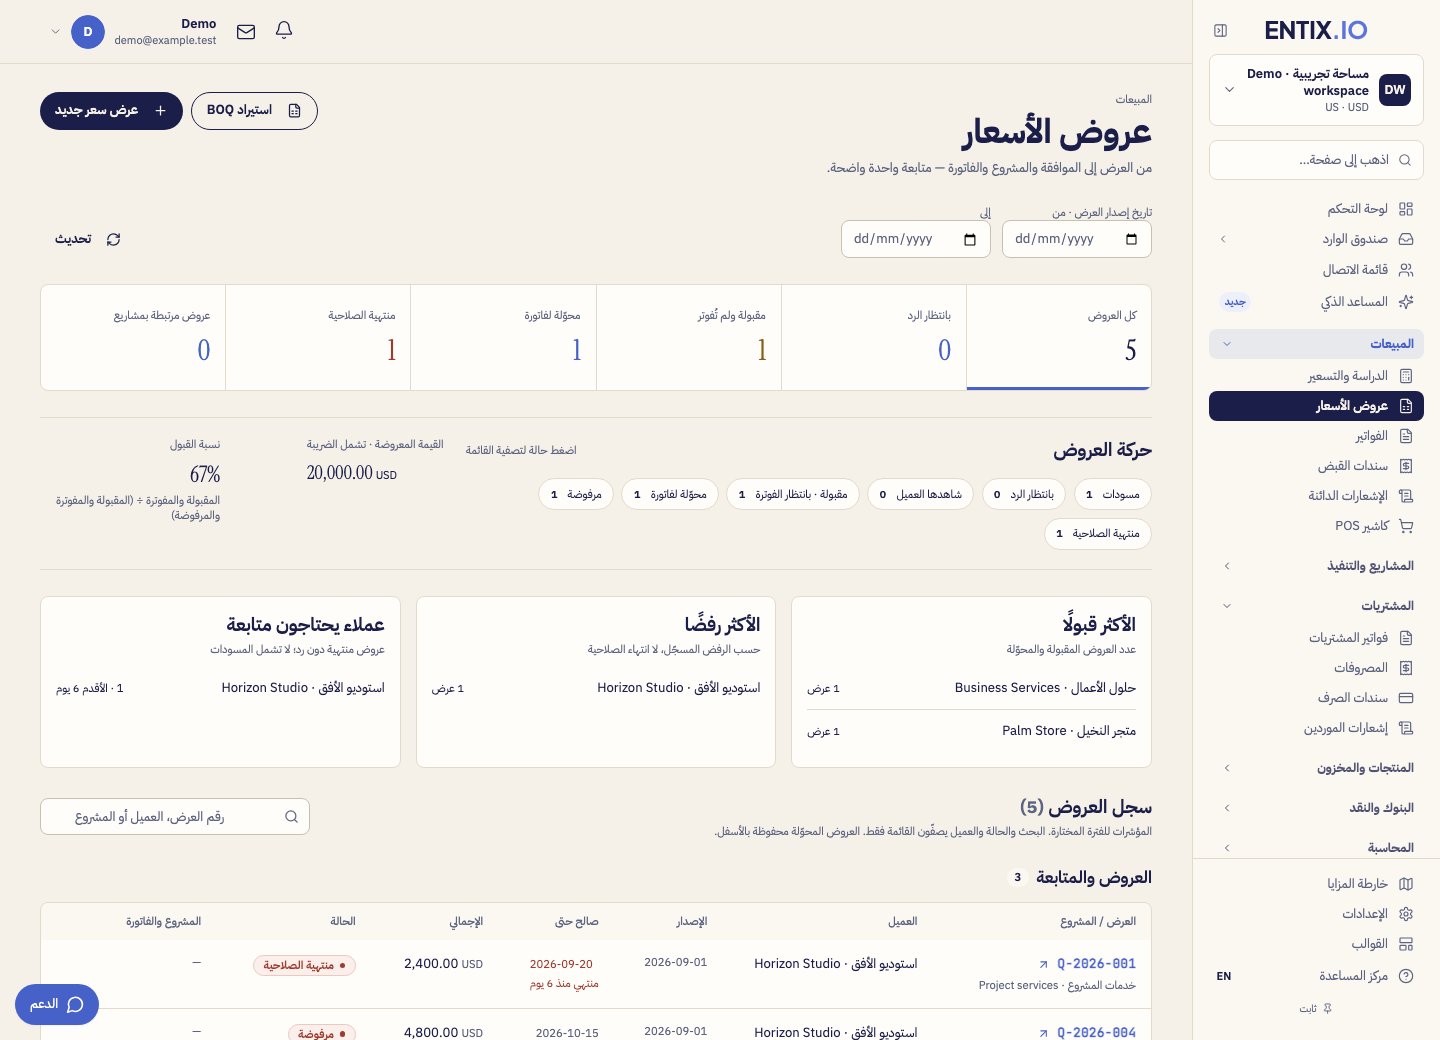
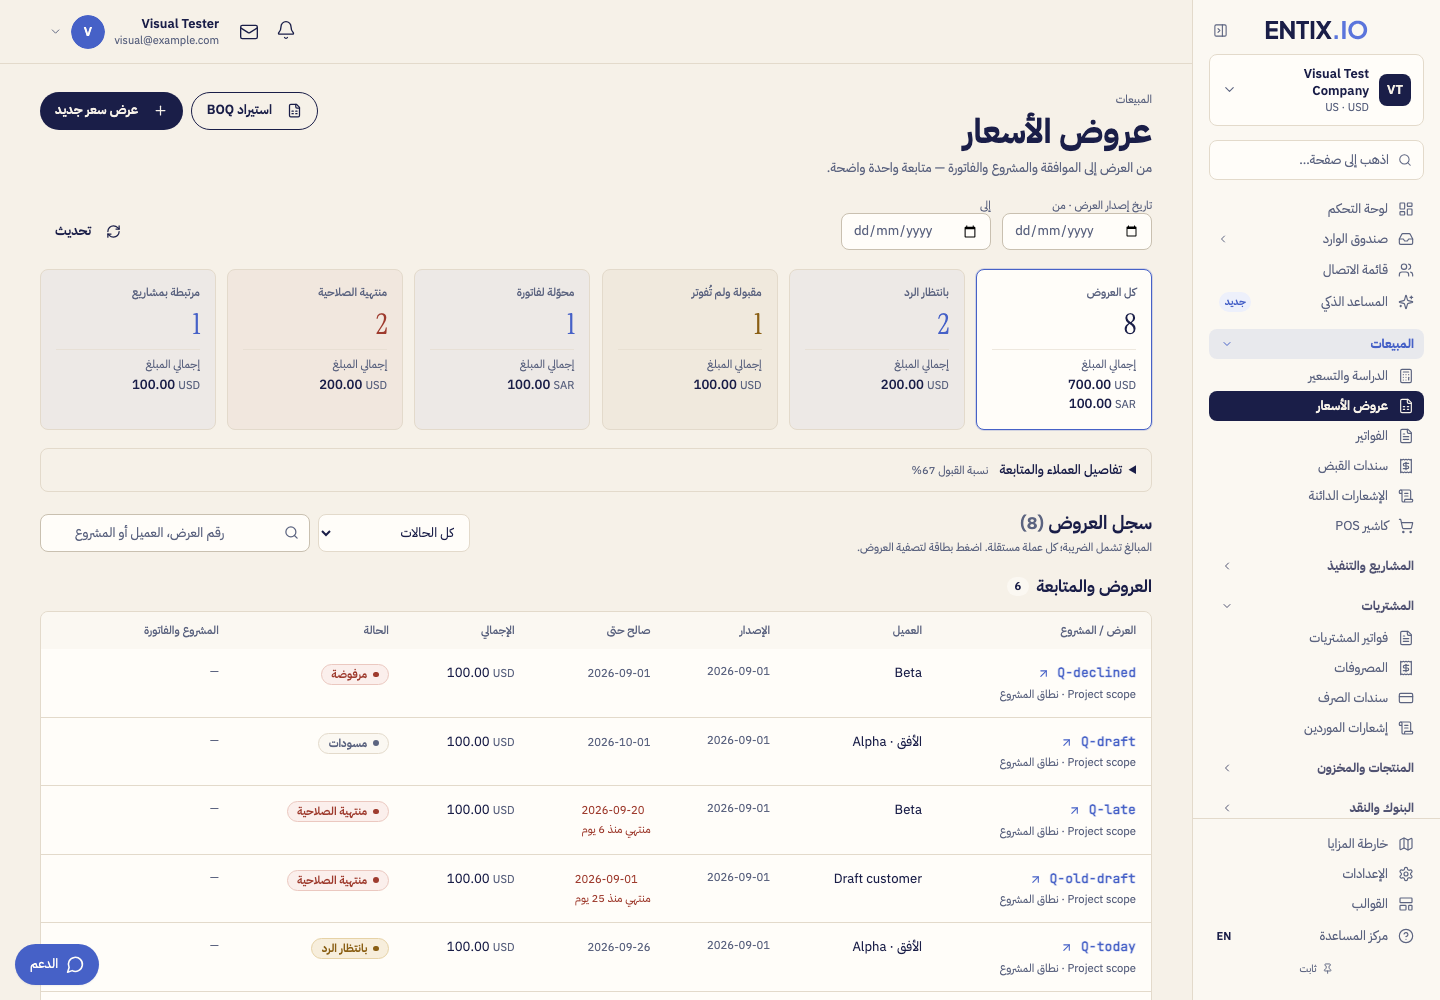
Simplify quotation dashboard with totals inside status cards

diff --git a/src/app/components/quotes-dashboard.tsx b/src/app/components/quotes-dashboard.tsx
@@ -15,6 +15,7 @@ const names: Record<QuoteStage, [string,string]> = {
   REJECTED: ['مرفوضة','Declined'], EXPIRED: ['منتهية الصلاحية','Expired'],
 };
 const tones = { DRAFT: 'neutral', SENT: 'warning', VIEWED: 'info', ACCEPTED: 'warning', CONVERTED: 'success', REJECTED: 'critical', EXPIRED: 'critical' } as const;
+type QuoteFilter = QuoteStage | 'ALL' | 'PROJECT' | 'WAITING';
 const amount = (n: number | string) => Number(n || 0).toLocaleString(displayLocale(), { minimumFractionDigits: 2, maximumFractionDigits: 2 });
 
 export function QuotesDashboard({ items, loading, error, onRefresh, onNew, onImport }: {
@@ -25,7 +26,7 @@ export function QuotesDashboard({ items, loading, error, onRefresh, onNew, onImp
   const mobile = useIsMobile();
   const today = localDateKey();
   const [query, setQuery] = useState('');
-  const [stage, setStage] = useState<QuoteStage | 'ALL' | 'PROJECT' | 'WAITING'>('ALL');
+  const [stage, setStage] = useState<QuoteFilter>('ALL');
   const [client, setClient] = useState('');
   const [from, setFrom] = useState('');
   const [to, setTo] = useState('');
@@ -33,10 +34,11 @@ export function QuotesDashboard({ items, loading, error, onRefresh, onNew, onImp
   const invalidRange = !!(from && to && from > to);
   const period = useMemo(() => items.filter(q => (!from || q.issueDate.slice(0,10) >= from) && (!to || q.issueDate.slice(0,10) <= to)), [items, from, to]);
   const summary = useMemo(() => summarizeQuotes(period, today), [period, today]);
+  const matchesStage = (q: QuoteOverview, filter: QuoteFilter) => filter === 'ALL' || (filter === 'WAITING' ? ['SENT','VIEWED'].includes(quoteStage(q,today)) : filter === 'PROJECT' ? !!(q.projectId || q.projects?.length) : quoteStage(q,today) === filter);
   const shown = period.filter(q => {
     const text = `${q.quoteNumber} ${q.title || ''} ${q.contact?.displayName || ''} ${(q.projects || []).map(p => `${p.code} ${p.name}`).join(' ')}`.toLocaleLowerCase();
     return (!query || text.includes(query.trim().toLocaleLowerCase())) && (!client || q.contactId === client)
-      && (stage === 'ALL' || (stage === 'WAITING' ? ['SENT','VIEWED'].includes(quoteStage(q,today)) : stage === 'PROJECT' ? !!(q.projectId || q.projects?.length) : quoteStage(q, today) === stage));
+      && matchesStage(q, stage);
   });
   const pick = (value: typeof stage) => { setStage(value); setVisible(25); };
   const groups = [
@@ -64,7 +66,7 @@ export function QuotesDashboard({ items, loading, error, onRefresh, onNew, onImp
     {q.convertedInvoiceId && <Link to={`/app/invoices/${q.convertedInvoiceId}`} className="text-primary hover:underline"><bdi>{q.convertedInvoice?.invoiceNumber || t('فتح الفاتورة','Open invoice')}</bdi>{q.convertedInvoice?.status === 'CANCELLED' && <span className="ms-1 text-danger">{t('ملغاة','Voided')}</span>}</Link>}
     {!q.projectId && !q.projects?.length && !q.convertedInvoiceId && <span className="text-muted-foreground">—</span>}
   </div>;
-  return <div className="space-y-7" data-testid="quotes-dashboard">
+  return <div className="space-y-5" data-testid="quotes-dashboard">
     <PageHeader className="flex-col sm:flex-row [&>div:first-child]:w-full sm:[&>div:first-child]:w-auto" eyebrow={t('المبيعات','Sales')} title={t('عروض الأسعار','Quotes')} description={t('من العرض إلى الموافقة والمشروع والفاتورة — متابعة واحدة واضحة.','From proposal to approval, project and invoice — one clear view.')} actions={<>
       <Button variant="outline" onClick={onImport}><FileSpreadsheet className="me-2 h-4 w-4" />{t('استيراد BOQ','Import BOQ')}</Button>
       <Button onClick={onNew}><Plus className="me-2 h-4 w-4" />{t('عرض سعر جديد','New quote')}</Button>
@@ -81,42 +83,53 @@ export function QuotesDashboard({ items, loading, error, onRefresh, onNew, onImp
       : loading ? <div role="status" className="py-16 text-center text-muted-foreground">{t('جارٍ تحميل العروض وروابط المشاريع…','Loading quotes and project links…')}</div>
       : invalidRange ? <p role="alert" className="text-danger">{t('تاريخ البداية يجب أن يسبق النهاية.','The start date must be before the end date.')}</p>
       : <>
-        <div className="grid grid-cols-2 gap-px overflow-hidden rounded-xl border border-border bg-border lg:grid-cols-6">
+        <div className="grid grid-cols-2 gap-3 md:grid-cols-3 xl:grid-cols-6">
           {([
-            ['ALL',t('كل العروض','All quotes'),period.length,'text-foreground'],
-            ['WAITING',t('بانتظار الرد','Awaiting reply'),summary.counts.SENT + summary.counts.VIEWED,'text-primary'],
-            ['ACCEPTED',t('مقبولة ولم تُفوتر','Accepted, not invoiced'),summary.counts.ACCEPTED,'text-warning'],
-            ['CONVERTED',t('محوّلة لفاتورة','Invoiced'),summary.counts.CONVERTED,'text-success'],
-            ['EXPIRED',t('منتهية الصلاحية','Expired'),summary.counts.EXPIRED,'text-danger'],
-            ['PROJECT',t('عروض مرتبطة بمشاريع','Quotes linked to projects'),period.filter(q=>q.projectId || q.projects?.length).length,'text-primary'],
-          ] as const).map(([key,label,value,color])=><button key={key} type="button" onClick={()=>pick(key)} aria-pressed={stage===key} className={`min-h-28 bg-card p-4 text-start hover:bg-surface-subtle focus-visible:outline-2 focus-visible:outline-primary ${stage===key ? 'shadow-[inset_0_-3px_0_var(--primary)]' : ''}`} data-testid={`quote-metric-${key}`}>
-            <span className="block text-xs text-muted-foreground">{label}</span><span className={`mt-3 block font-display text-3xl tabular-nums ${color}`}>{value}</span>
-          </button>)}
+            ['ALL',t('كل العروض','All quotes'),'text-foreground','bg-card'],
+            ['WAITING',t('بانتظار الرد','Awaiting reply'),'text-primary','bg-primary/5'],
+            ['ACCEPTED',t('مقبولة ولم تُفوتر','Accepted, not invoiced'),'text-warning','bg-warning/5'],
+            ['CONVERTED',t('محوّلة لفاتورة','Invoiced'),'text-success','bg-success/5'],
+            ['EXPIRED',t('منتهية الصلاحية','Expired'),'text-danger','bg-danger/5'],
+            ['PROJECT',t('مرتبطة بمشاريع','Linked to projects'),'text-primary','bg-primary/5'],
+          ] as const).map(([key,label,color,background])=> {
+            const metric = summarizeQuotes(period.filter(q=>matchesStage(q,key)),today);
+            const count = Object.values(metric.counts).reduce((total,n)=>total+n,0);
+            return <button key={key} type="button" onClick={()=>pick(key)} aria-pressed={stage===key} className={`flex min-w-0 flex-col rounded-xl border p-4 text-start transition-colors hover:border-primary/50 focus-visible:outline-2 focus-visible:outline-primary ${background} ${stage===key ? 'border-primary ring-1 ring-primary/20' : 'border-border'}`} data-testid={`quote-metric-${key}`}>
+              <span className="text-xs font-medium text-muted-foreground">{label}</span>
+              <span className={`mt-2 font-display text-3xl tabular-nums ${color}`} data-testid={`quote-count-${key}`}>{count}</span>
+              <span className="mt-2 block w-full border-t border-border/60 pt-2 text-sm font-medium tabular-nums" data-testid={key==='ALL' ? 'quote-currency-totals' : `quote-total-${key}`}>
+                <span className="mb-1 block text-xs font-normal text-muted-foreground">{t('إجمالي المبلغ','Total amount')}</span>
+                {Object.entries(metric.currencies).map(([cur,n])=><span key={cur} className="block"><bdi>{amount(n)} <span className="text-xs font-normal text-muted-foreground">{cur}</span></bdi></span>)}
+                {!count && <span>{amount(0)}</span>}
+              </span>
+            </button>;
+          })}
         </div>
-        <section className="grid gap-6 border-y border-border py-5 lg:grid-cols-[1.7fr_1fr]" aria-label={t('ملخص العروض','Quote summary')}>
-          <div>
-            <div className="mb-4 flex items-center justify-between gap-3"><h2 className="font-semibold">{t('حركة العروض','Quote pipeline')}</h2><span className="text-xs text-muted-foreground">{t('اضغط حالة لتصفية القائمة','Select a stage to filter the list')}</span></div>
-            <div className="flex flex-wrap gap-2">{QUOTE_STAGES.map(s=><button key={s} type="button" aria-pressed={stage===s} onClick={()=>pick(s)} className={`rounded-full border px-3 py-2 text-xs ${stage===s ? 'border-primary bg-primary text-primary-foreground' : 'border-border bg-card'}`}><span>{t(...names[s])}</span> <span className="ms-2 font-semibold tabular-nums">{summary.counts[s]}</span></button>)}</div>
-          </div>
-          <div className="flex flex-wrap justify-between gap-5">
-            <div><p className="text-xs text-muted-foreground">{t('القيمة المعروضة · تشمل الضريبة','Quoted value · including tax')}</p><div className="mt-2 space-y-1" data-testid="quote-currency-totals">{Object.entries(summary.currencies).map(([cur,n])=><p key={cur} dir="ltr" className="text-start font-display text-xl tabular-nums">{amount(n)} <span className="text-xs">{cur}</span></p>)}{!period.length && <p>—</p>}</div></div>
-            <div><p className="text-xs text-muted-foreground">{t('نسبة القبول','Acceptance rate')}</p><p className="mt-2 font-display text-2xl">{summary.acceptanceRate == null ? '—' : `${summary.acceptanceRate}%`}</p><p className="mt-1 max-w-48 text-xs text-muted-foreground">{t('المقبولة والمفوترة ÷ (المقبولة والمفوترة والمرفوضة)','Accepted + invoiced ÷ accepted, invoiced and declined')}</p></div>
-          </div>
-        </section>
-        <div className="grid gap-4 lg:grid-cols-3">
+        {(summary.accepted.length > 0 || summary.rejected.length > 0 || summary.overdue.length > 0) && <details className="rounded-lg border border-border" data-testid="quote-customer-insights">
+          <summary className="cursor-pointer px-4 py-3 text-sm font-medium" data-testid="quote-insights-toggle">{t('تفاصيل العملاء والمتابعة','Customer insights & follow-up')}{summary.acceptanceRate != null && <span className="ms-3 text-xs font-normal text-muted-foreground">{t('نسبة القبول','Acceptance rate')} {summary.acceptanceRate}%</span>}</summary>
+        <div className="grid gap-3 px-3 pb-3 lg:grid-cols-3">
           {([
             ['accepted',t('الأكثر قبولًا','Most acceptances'),t('عدد العروض المقبولة والمحوّلة','Accepted and invoiced quote count')],
             ['rejected',t('الأكثر رفضًا','Most declines'),t('حسب الرفض المسجّل، لا انتهاء الصلاحية','Recorded declines, not expired quotes')],
             ['overdue',t('عملاء يحتاجون متابعة','Customers to follow up'),t('عروض منتهية دون رد؛ لا تشمل المسودات','Expired without a response; excludes drafts')],
-          ] as const).map(([key,title,hint])=><section key={key} className="rounded-xl border border-border bg-card p-4" data-testid={`quote-clients-${key}`}>
+          ] as const).filter(([key])=>summary[key].length > 0).map(([key,title,hint])=><section key={key} className="rounded-xl border border-border bg-card p-4" data-testid={`quote-clients-${key}`}>
             <h2 className="font-semibold">{title}</h2><p className="mt-1 text-xs text-muted-foreground">{hint}</p>
             <ol className="mt-3 divide-y divide-border">{summary[key].map(c=><li key={c.id}><button type="button" className="flex w-full items-center justify-between gap-3 py-3 text-start text-sm hover:text-primary" onClick={()=>{setClient(c.id);pick(key==='rejected'?'REJECTED':key==='overdue'?'EXPIRED':'ALL');}}><bdi className="min-w-0 break-words">{c.name}</bdi><span className="shrink-0 text-xs tabular-nums">{c[key]} {key==='overdue' ? t(`· الأقدم ${c.oldestDays} يوم`,`· oldest ${c.oldestDays}d`) : t('عرض','quotes')}</span></button></li>)}</ol>
             {!summary[key].length && <p className="py-5 text-sm text-muted-foreground">{t('لا توجد بيانات لهذه الحالة','No records in this category')}</p>}
           </section>)}
         </div>
+        </details>}
         <div className="flex flex-wrap items-center justify-between gap-3">
-          <div><h2 className="font-semibold">{t('سجل العروض','Quote register')} <span className="text-muted-foreground">({shown.length})</span></h2><p className="mt-1 text-xs text-muted-foreground">{t('المؤشرات للفترة المختارة. البحث والحالة والعميل يصفّون القائمة فقط. العروض المحوّلة محفوظة بالأسفل.','Metrics cover the selected period. Search, stage and customer filter the list only. Invoiced quotes stay below.')}</p></div>
+          <div><h2 className="font-semibold">{t('سجل العروض','Quote register')} <span className="text-muted-foreground">({shown.length})</span></h2><p className="mt-1 text-xs text-muted-foreground">{t('المبالغ تشمل الضريبة؛ كل عملة مستقلة. اضغط بطاقة لتصفية العروض.','Totals include tax, with each currency separate. Select a card to filter quotes.')}</p></div>
+          <div className="flex w-full flex-wrap items-center gap-2 sm:w-auto">
+            <label><span className="sr-only">{t('حالة العرض','Quote stage')}</span><select value={stage} onChange={e=>pick(e.target.value as QuoteFilter)} className="h-10 max-w-full rounded-md border border-border bg-card px-3 text-sm">
+              <option value="ALL">{t('كل الحالات','All stages')}</option>
+              <option value="WAITING">{t('بانتظار الرد','Awaiting reply')}</option>
+              {QUOTE_STAGES.map(s=><option key={s} value={s}>{t(...names[s])}</option>)}
+              <option value="PROJECT">{t('مرتبطة بمشروع','Linked to a project')}</option>
+            </select></label>
           <label className="relative w-full sm:w-72"><span className="sr-only">{t('ابحث في العروض','Search quotes')}</span><Search className="absolute start-3 top-3 h-4 w-4 text-muted-foreground" /><Input value={query} onChange={e=>{setQuery(e.target.value);setVisible(25);}} placeholder={t('رقم العرض، العميل أو المشروع','Quote number, customer or project')} className="ps-9" /></label>
+          </div>
         </div>
         {(stage!=='ALL' || client || query) && <div className="flex flex-wrap items-center gap-3 text-xs"><span>{t('التصفية الحالية:','Current filter:')} {stage==='ALL'?t('كل الحالات','All stages'):stage==='PROJECT'?t('مرتبطة بمشروع','Linked to a project'):stage==='WAITING'?t('بانتظار الرد','Awaiting reply'):t(...names[stage])}{client ? ` · ${period.find(q=>q.contactId===client)?.contact?.displayName || '—'}`:''}</span><Button variant="outline" size="sm" onClick={()=>{pick('ALL');setClient('');setQuery('');}}>{t('مسح التصفية','Clear filters')}</Button></div>}
         {!shown.length && <div className="rounded-xl border border-dashed border-border py-12 text-center"><h3 className="font-semibold">{items.length ? t('لا توجد عروض تطابق التصفية','No matching quotes') : t('ابدأ بأول عرض سعر','Create your first quote')}</h3><p className="mt-2 text-sm text-muted-foreground">{items.length ? t('غيّر الفترة أو امسح التصفية.','Change the period or clear filters.') : t('ستظهر المؤشرات تلقائيًا مع إرسال العروض وتسجيل قرارات العملاء.','Insights appear as quotes are sent and customer decisions are recorded.')}</p></div>}

diff --git a/tests/quotes-dashboard.spec.ts b/tests/quotes-dashboard.spec.ts
@@ -24,11 +24,16 @@ async function prepare(page: Page, language: 'ar'|'en', failSecond=false) {
 }
 for(const lang of ['ar','en'] as const) test(`quote dashboard shows complete lifecycle and independent currencies (${lang})`,async({page})=>{
   await prepare(page,lang);await page.setViewportSize({width:1440,height:1000});await page.goto('/app/quotes');
-  await expect(page.getByTestId('quote-metric-ALL')).toContainText('8');
-  await expect(page.getByTestId('quote-metric-WAITING')).toContainText('2');
-  await expect(page.getByTestId('quote-metric-EXPIRED')).toContainText('2');
+  await expect(page.getByTestId('quote-count-ALL')).toHaveText('8');
+  await expect(page.getByTestId('quote-count-WAITING')).toHaveText('2');
+  await expect(page.getByTestId('quote-count-EXPIRED')).toHaveText('2');
   await expect(page.getByTestId('quote-currency-totals')).toContainText('700.00 USD');
   await expect(page.getByTestId('quote-currency-totals')).toContainText('100.00 SAR');
+  await expect(page.getByTestId('quote-total-WAITING')).toContainText('200.00 USD');
+  await expect(page.getByTestId('quote-total-CONVERTED')).toContainText('100.00 SAR');
+  await expect(page.getByTestId('quote-total-ACCEPTED')).toContainText('100.00 USD');
+  await expect(page.getByTestId('quote-clients-accepted')).not.toBeVisible();
+  await page.getByTestId('quote-insights-toggle').click();
   await expect(page.getByTestId('quote-clients-accepted')).toContainText('Alpha');
   await expect(page.getByTestId('quote-clients-rejected')).toContainText('Beta');
   await expect(page.getByTestId('quote-clients-overdue')).toContainText('Beta');
@@ -38,6 +43,7 @@ for(const lang of ['ar','en'] as const) test(`quote dashboard shows complete lif
   await expect(page.getByTestId('quote-date-invoiced')).not.toHaveClass(/text-danger/);
   await expect(page.getByTestId('quote-row-accepted').getByRole('link',{name:/P-1/})).toHaveAttribute('href','/app/projects/project-1');
   await expect(page.getByTestId('quote-group-converted').getByRole('link',{name:'INV-1'})).toHaveAttribute('href','/app/invoices/invoice-1');
+  await page.getByTestId('quote-insights-toggle').click();
   await page.screenshot({path:`/tmp/entix-quotes-dashboard-${lang}.png`,fullPage:true});
   await page.getByTestId('quote-metric-WAITING').click();
   await expect(page.getByTestId('quote-row-viewed')).toBeVisible();await expect(page.getByTestId('quote-row-today')).toBeVisible();await expect(page.getByTestId('quote-row-late')).toHaveCount(0);
@@ -47,12 +53,13 @@ for(const lang of ['ar','en'] as const) test(`quote dashboard shows complete lif
 });
 test('dashboard date/customer/search filters and mobile fit',async({page})=>{
   await prepare(page,'en');await page.setViewportSize({width:390,height:844});await page.goto('/app/quotes');
-  await expect(page.getByTestId('quote-metric-ALL')).toContainText('8');
+  await expect(page.getByTestId('quote-count-ALL')).toHaveText('8');
   expect(await page.evaluate(()=>document.documentElement.scrollWidth <= window.innerWidth+1)).toBe(true);
   await page.screenshot({path:'/tmp/entix-quotes-dashboard-phone.png',fullPage:true});
+  await page.getByTestId('quote-insights-toggle').click();
   await page.getByTestId('quote-clients-rejected').getByRole('button',{name:/Beta/}).click();await expect(page.getByTestId('quote-row-declined')).toBeVisible();await expect(page.getByTestId('quote-row-late')).toHaveCount(0);
   await page.getByRole('button',{name:'Clear filters'}).click();await page.getByLabel('Search quotes',{exact:true}).fill('q-invoiced');await expect(page.getByTestId('quote-row-invoiced')).toBeVisible();await expect(page.getByTestId('quote-row-accepted')).toHaveCount(0);
-  await page.getByRole('button',{name:'Clear filters'}).click();await page.getByLabel('Quote issue date · from').fill('2026-09-02');await expect(page.getByTestId('quote-metric-ALL')).toContainText('0');
+  await page.getByRole('button',{name:'Clear filters'}).click();await page.getByLabel('Quote issue date · from').fill('2026-09-02');await expect(page.getByTestId('quote-count-ALL')).toHaveText('0');
 });
 test('failed subsequent page does not publish partial metrics',async({page})=>{
   await prepare(page,'en',true);await page.goto('/app/quotes');
@@ -61,5 +68,5 @@ test('failed subsequent page does not publish partial metrics',async({page})=>{
 test('more than 200 quotes remain counted and older converted quote remains accessible',async({page})=>{
   await prepareVisualApp(page,'en');
   await page.route('**/api/quotes/overview**',r=>r.fulfill({json:new URL(r.request().url()).searchParams.has('after') ? {items:[rows[4]],nextCursor:null} : {items:Array.from({length:200},(_,i)=>quote(`bulk-${i}`,'DRAFT')),nextCursor:'bulk-199'}}));
-  await page.goto('/app/quotes');await expect(page.getByTestId('quote-metric-ALL')).toContainText('201');await expect(page.getByTestId('quote-row-invoiced')).toBeVisible();
+  await page.goto('/app/quotes');await expect(page.getByTestId('quote-count-ALL')).toHaveText('201');await expect(page.getByTestId('quote-row-invoiced')).toBeVisible();
 });
